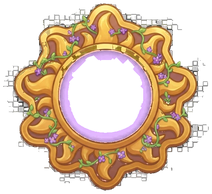
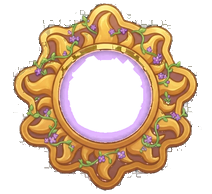
Fix duel HUD shifting during countdown, clean timer and health frames
The clock's countdown phase class collided with the 3-2-1 overlay styles,
turning the clock full-screen until the match started. Also restores the
duel header layout, enlarges the timer, strips the checkerboard fringe from
clock-frame.png and hp-frame.png, and drops the gesture legend grid and
emoji wording from the camera toggle.

diff --git a/client/src/gesture/GestureCamera.tsx b/client/src/gesture/GestureCamera.tsx
@@ -22,14 +22,6 @@ const ACTION_SPELLS: Partial<Record<GestureAction, SpellId>> = {
 
 const POSE_LABELS: Partial<Record<HandPose, string>> = { FIST: "✊", OPEN_PALM: "✋", VICTORY: "✌", POINT: "☝", HORNS: "🤘", BOTH_FISTS: "✊✊", BOTH_PALMS: "🙌" };
 
-const LEGEND: { spell: SpellId; pose: string; poses: HandPose[] }[] = [
-  { spell: "fireball", pose: "✊→✋", poses: ["FIST", "BOTH_FISTS"] },
-  { spell: "shield", pose: "🙌", poses: ["BOTH_PALMS"] },
-  { spell: "ice", pose: "✌", poses: ["VICTORY"] },
-  { spell: "taurus", pose: "🤘", poses: ["HORNS"] },
-  { spell: "ultimate", pose: "☝", poses: ["POINT"] },
-];
-
 /** Hand-skeleton glow: gold at rest, the spell's color while charging. */
 const HAND_COLOR = { idle: "#f6c453", fireball: "#ff8a4c", ultimate: "#fff27a" };
 
@@ -235,17 +227,6 @@ export function GestureCamera({
           </span>
         )}
       </div>
-      {enabled && !raceTarget && !compact && (
-        <ul className="gesture-cam-legend">
-          {LEGEND.map(({ spell, pose: hint, poses }) => (
-            // Light up the spell the moment its pose is recognized, before the hold completes.
-            <li key={spell} className={(spell === "ultimate" && !ultimateReady) || !canCast(spell) ? "locked" : live && poses.includes(pose) ? "armed" : ""}>
-              <SpellIcon spell={spell} />
-              <span>{hint}</span>
-            </li>
-          ))}
-        </ul>
-      )}
       {error && <p className="gesture-cam-error" role="alert">{error}</p>}
       {compact ? <details className="pose-options">
         <summary>Options</summary>
@@ -256,7 +237,7 @@ export function GestureCamera({
         </div>
       </details> : <>
         {raceTarget && enabled && <button className="gesture-cam-toggle" onClick={() => controllerRef.current?.retryFaceTracking()}>Retry face tracking</button>}
-        <button className="gesture-cam-toggle" onClick={toggle}>{enabled ? "Gestures on · turn off" : "🎥 Cast with gestures"}</button>
+        <button className="gesture-cam-toggle" onClick={toggle}>{enabled ? "Turn camera off" : "Cast with your camera"}</button>
       </>}
     </aside>
     </>

diff --git a/client/src/styles.css b/client/src/styles.css
@@ -901,7 +901,7 @@ kbd {
 
 /* ---------- overlays ---------- */
 
-.countdown {
+.countdown:not(.clock) {
   position: absolute;
   inset: 0;
   display: grid;
@@ -910,7 +910,7 @@ kbd {
   background: radial-gradient(circle, #120d2b55, transparent 60%);
 }
 
-.countdown span {
+.countdown:not(.clock) span {
   font: 900 clamp(90px, 16vw, 180px) var(--font-title);
   color: var(--gold-soft);
   text-shadow: 0 0 50px var(--gold), 0 6px 0 var(--plum);
@@ -2507,12 +2507,11 @@ body {
 /* Numbers and status words read better in the ornate display face than in gothic. */
 .health-value,
 .spell-state,
-.countdown span { font-family: var(--font-display); }
+.countdown:not(.clock) span { font-family: var(--font-display); }
 .spell-name { font-family: var(--font-label); }
 
 /* Brand lockup: keep the lozenge on the text's centre line everywhere. */
-.topbar .brand-link,
-.duel-header {
+.topbar .brand-link {
   display: inline-flex;
   align-items: center;
   gap: 10px;
@@ -2947,3 +2946,16 @@ body {
 /* Wizard-name field in the forest style. */
 .name-field span { font: 400 12px var(--font-label); letter-spacing: 0.22em; text-transform: none; color: var(--gold-soft); }
 .name-field input { background: var(--night); border: 1px solid var(--line); font: 600 15px var(--font-book); }
+
+/* Bigger sun-frame timer so the round clock reads at a glance. */
+.clock {
+  width: 176px;
+  height: 162px;
+}
+.clock-label { font-size: 9px; margin-top: -4px; }
+.clock-time { font-size: 34px; }
+.clock-progress { width: 68px; }
+@media (max-width: 760px) {
+  .clock { width: 112px; height: 104px; }
+  .clock-time { font-size: 22px; }
+}
